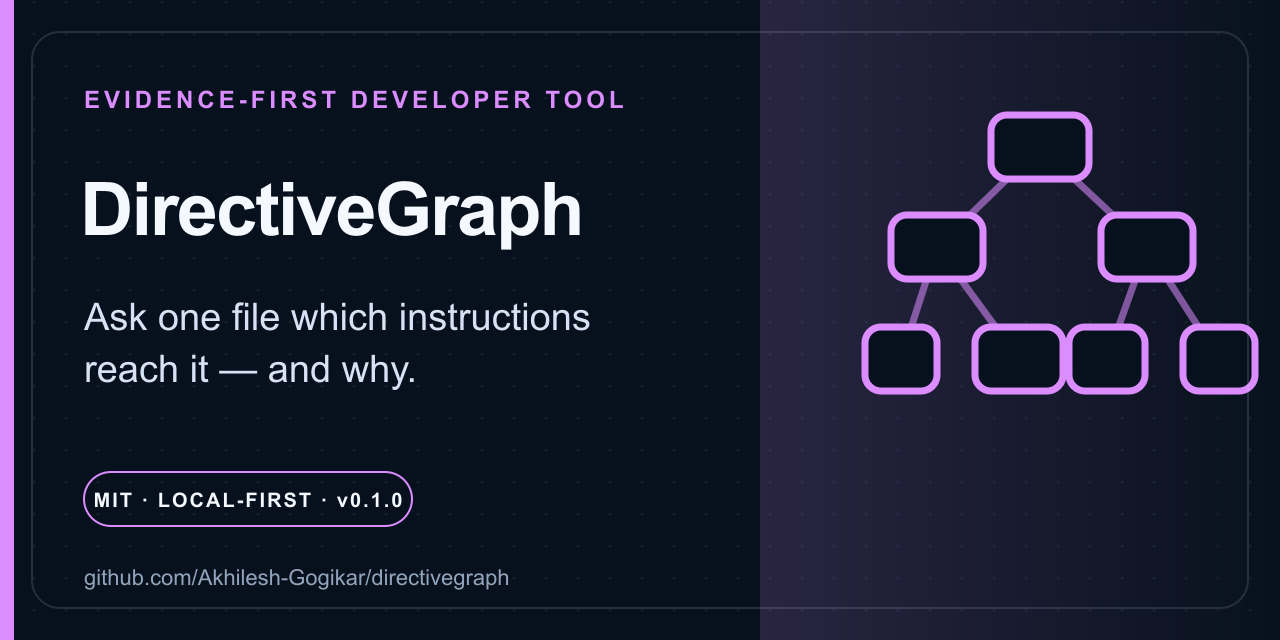
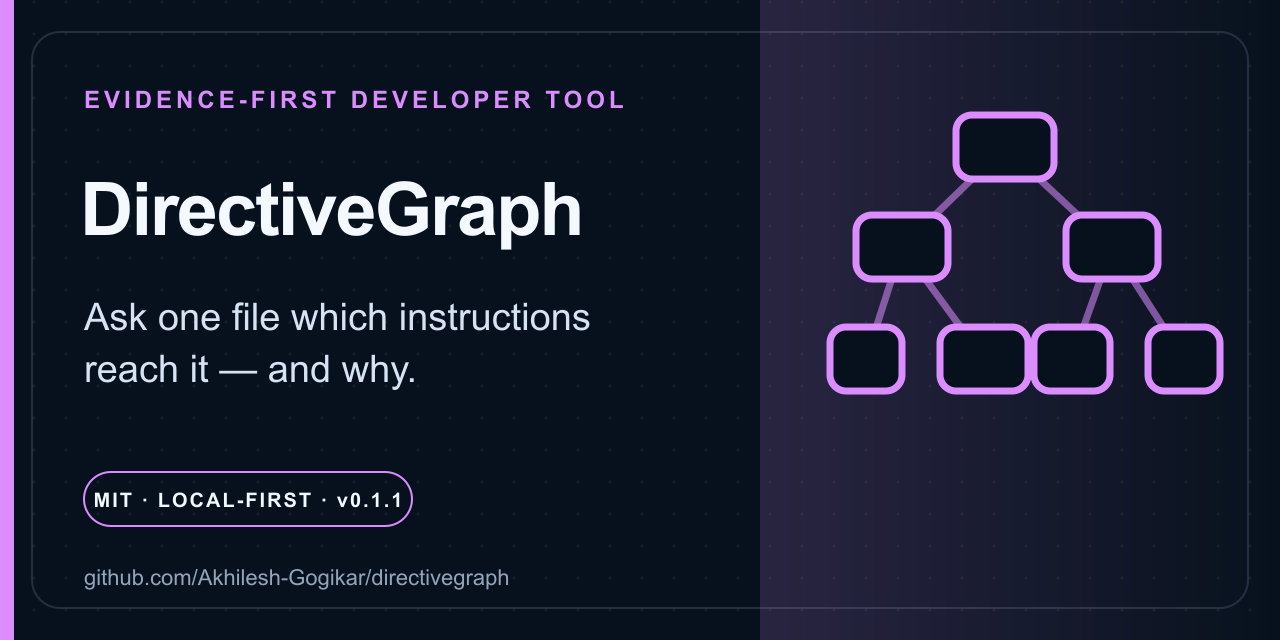
release: prepare 0.1.1 for public launch (#11)
Prepares DirectiveGraph 0.1.1 for the public launch, following the
ReleaseFence 0.1.1 pattern. There are no CLI or report-format changes;
`directivegraph.report.v1` is unchanged.

## Changes
- **Version 0.1.1:** `pyproject.toml`, `__version__`, tests,
bug-template placeholder, README status, CHANGELOG, and the social
preview. The preview SVG and PNG are re-rendered, and the graphic now
sits inside the frame.
- **Launch planning removed from the repo:** `docs/LAUNCH_KIT.md` and
`docs/PLAN.md` are moved out. README links and tests are updated, and a
test asserts the files stay out.
- **ECOSYSTEM.md** lists only public tools: DirectiveGraph and
ReleaseFence. An allowlist test fails if any other entry is listed or
any other `Akhilesh-Gogikar/*` repo is linked from Markdown. The test
names no unreleased project.
- **Removed a test assertion that spelled out a private project name.**
- **Doc accuracy:**
- Symlinked instruction files are followed today, including targets
outside `--root`. This is disclosed in SEMANTICS, SECURITY, PRIVACY, and
ARCHITECTURE and tracked in #7.
- Claude Code sources also get closer-source candidate edges. Claude and
Gemini edges record position, not a documented closer-wins rule.
- SCOPE's v0 boundary now matches the "no cross-vendor order" behavior.
- **Issue seeds** are synced with the live issues (#4–#8) and the
current code, covering titles, labels, `_parse_rules` behavior, symlink
[…]

Changed region(s): [[0.625, 0.1562, 1.0, 0.625]]

diff --git a/tests/test_project_metadata.py b/tests/test_project_metadata.py
@@ -18,7 +18,7 @@ class ProjectMetadataTest(unittest.TestCase):
             "LICENSE", "CONTRIBUTING.md", "CODE_OF_CONDUCT.md", "SECURITY.md", "SUPPORT.md",
             "GOVERNANCE.md", "ROADMAP.md", "CHANGELOG.md", "ECOSYSTEM.md", "pyproject.toml",
             "docs/ARCHITECTURE.md", "docs/TROUBLESHOOTING.md", "docs/API_STABILITY.md",
-            "docs/PRIVACY.md", "docs/ACCESSIBILITY.md", "docs/LAUNCH_KIT.md", "docs/ISSUE_SEEDS.md",
+            "docs/PRIVACY.md", "docs/ACCESSIBILITY.md", "docs/ISSUE_SEEDS.md",
             ".github/ISSUE_TEMPLATE/bug.yml", ".github/ISSUE_TEMPLATE/feature.yml",
             ".github/PULL_REQUEST_TEMPLATE.md", ".github/CODEOWNERS", ".github/dependabot.yml",
             ".github/workflows/ci.yml", ".github/workflows/release.yml",
@@ -27,12 +27,12 @@ class ProjectMetadataTest(unittest.TestCase):
 
     def test_package_and_workflow_contract(self):
         project = (ROOT / "pyproject.toml").read_text(encoding="utf-8")
-        self.assertIn('version = "0.1.0"', project)
+        self.assertIn('version = "0.1.1"', project)
         self.assertIn('dependencies = []', project)
         self.assertIn('license = "MIT"', project)
         self.assertIn('license-files = ["LICENSE"]', project)
         self.assertIn('directivegraph = "directivegraph.__main__:main"', project)
-        self.assertEqual("0.1.0", directivegraph.__version__)
+        self.assertEqual("0.1.1", directivegraph.__version__)
         ci = (ROOT / ".github/workflows/ci.yml").read_text(encoding="utf-8")
         release = (ROOT / ".github/workflows/release.yml").read_text(encoding="utf-8")
         self.assertIn("permissions:\n  contents: read", ci)
@@ -67,9 +67,14 @@ class ProjectMetadataTest(unittest.TestCase):
         self.assertEqual([], broken)
         joined = "\n".join(text)
         self.assertNotIn("/" + "Users" + "/", joined)
-        self.assertNotIn("One" + "New", joined)
         ecosystem = (ROOT / "ECOSYSTEM.md").read_text(encoding="utf-8")
-        self.assertEqual(7, len(set(re.findall(r"github\.com/Akhilesh-Gogikar/([a-z0-9-]+)", ecosystem))))
+        # Allowlist: list and link only public tools, so unreleased siblings stay unnamed.
+        public = {"directivegraph", "releasefence"}
+        entries = [line for line in ecosystem.splitlines() if line.lstrip().startswith(("-", "*", "|"))]
+        self.assertEqual(len(public), len(entries))
+        owner_repos = r"github\.com/Akhilesh-Gogikar/([a-z0-9-]+)"
+        self.assertEqual(public, set(re.findall(owner_repos, ecosystem)))
+        self.assertEqual(set(), set(re.findall(owner_repos, joined)) - public)
         self.assertIn("optional and informational", ecosystem)
 
     def test_launch_materials_are_complete_and_scoped(self):
@@ -77,10 +82,9 @@ class ProjectMetadataTest(unittest.TestCase):
         self.assertEqual(5, len(re.findall(r"^## \d+\. ", seeds, re.MULTILINE)))
         for field in ("**Proposed title:**", "**Labels:**", "**Rationale:**", "**Acceptance criteria**", "**Test plan:**", "**Skills:**", "**Estimated scope:**", "**Likely files:**"):
             self.assertEqual(5, seeds.count(field), field)
-        launch = (ROOT / "docs/LAUNCH_KIT.md").read_text(encoding="utf-8")
-        for section in ("### Hacker News", "### Reddit", "### LinkedIn", "### X", "## FAQ", "## Launch-day checklist", "## First 30 days"):
-            self.assertIn(section, launch)
-        self.assertIn("Never claim", launch)
+        # Maintainer launch planning stays outside the repository.
+        self.assertFalse((ROOT / "docs/LAUNCH_KIT.md").exists())
+        self.assertFalse((ROOT / "docs/PLAN.md").exists())
 
 
 if __name__ == "__main__":

diff --git a/tests/test_directivegraph.py b/tests/test_directivegraph.py
@@ -68,7 +68,7 @@ class DirectiveGraphTest(unittest.TestCase):
             text=True,
         )
         self.assertEqual(result.returncode, 0, result.stderr)
-        self.assertEqual(result.stdout, "directivegraph 0.1.0\n")
+        self.assertEqual(result.stdout, "directivegraph 0.1.1\n")
         self.assertEqual(result.stderr, "")
 
 

diff --git a/directivegraph/__init__.py b/directivegraph/__init__.py
@@ -3,4 +3,4 @@
 from .core import analyze, render_dot, render_html, render_text, to_json
 
 __all__ = ["analyze", "render_dot", "render_html", "render_text", "to_json"]
-__version__ = "0.1.0"
+__version__ = "0.1.1"

diff --git a/docs/ISSUE_SEEDS.md b/docs/ISSUE_SEEDS.md
@@ -1,19 +1,19 @@
 # Issue seeds
 
-These are launch-ready drafts, not proof that an issue has been filed. Maintainers should confirm scope, create only the issues they intend to triage, and keep one owner per issue.
+These five work packages are filed as issues [#4](https://github.com/Akhilesh-Gogikar/directivegraph/issues/4) through [#8](https://github.com/Akhilesh-Gogikar/directivegraph/issues/8). The live issues are authoritative; this file keeps their original scope reviewable next to the code. Keep one owner per issue.
 
 ## 1. Protect instruction files from accidental output overwrite
 
-**Proposed title:** `Protect instruction files from accidental --output overwrite`
+**Proposed title:** `Protect instruction files from accidental output overwrite`
 
-**Labels:** `good first issue`, `bug`, `safety`, `needs-triage`
+**Labels:** `bug`, `good first issue`, `help wanted`, `safety`, `difficulty: beginner`, `size: S`, `mentored`, `status: ready`
 
 **Rationale:** analysis completes before output is written, but a user can point `--output` at an applicable instruction file and destroy source data. The CLI should fail closed.
 
 **Acceptance criteria**
 
 - Resolve the output path before writing and reject it when it aliases the target or any discovered instruction source.
-- Cover direct paths, normalized `..` paths, and symlink aliases supported by the chosen platform policy.
+- Cover direct paths and normalized `..` paths. Symlink aliases follow the policy from seed 4 (#7) once it lands.
 - Exit with code `2`, name the conflicting root-relative path when safe, and leave the file byte-for-byte unchanged.
 - Normal output behavior remains unchanged.
 
@@ -27,9 +27,9 @@ These are launch-ready drafts, not proof that an issue has been filed. Maintaine
 
 **Proposed title:** `Add deterministic JSON snapshots for all five synthetic repositories`
 
-**Labels:** `good first issue`, `testing`, `fixtures`, `needs-triage`
+**Labels:** `good first issue`, `help wanted`, `testing`, `fixtures`, `difficulty: beginner`, `size: M`, `mentored`, `status: ready`
 
-**Rationale:** current tests assert important fields, but reviewed snapshots would make unintended schema, reason-text, ordering, and ID changes obvious.
+**Rationale:** current tests assert important fields and check that two runs produce identical JSON, but reviewed snapshots would make unintended schema, reason-text, ordering, and ID changes obvious.
 
 **Acceptance criteria**
 
@@ -48,9 +48,9 @@ These are launch-ready drafts, not proof that an issue has been filed. Maintaine
 
 **Proposed title:** `Group wrapped Markdown list continuations into one extracted rule`
 
-**Labels:** `help wanted`, `parser`, `compatibility`, `needs-design`
+**Labels:** `help wanted`, `parser`, `compatibility`, `needs-design`, `difficulty: intermediate`, `size: M`, `status: ready`
 
-**Rationale:** `_parse_rules` treats each non-empty line as a rule. A visually wrapped list item therefore becomes multiple rules, which weakens line attribution and report readability.
+**Rationale:** `_parse_rules` skips headings, fenced code, and single-line HTML comments and strips list markers, but every other non-empty line becomes its own rule. A visually wrapped list item therefore becomes multiple rules, which weakens line attribution and report readability.
 
 **Acceptance criteria**
 
@@ -69,9 +69,9 @@ These are launch-ready drafts, not proof that an issue has been filed. Maintaine
 
 **Proposed title:** `Define and implement a symlink policy for instruction sources`
 
-**Labels:** `help wanted`, `security`, `filesystem`, `needs-design`
+**Labels:** `help wanted`, `security`, `filesystem`, `needs-design`, `difficulty: intermediate`, `size: L`, `status: ready`
 
-**Rationale:** target containment is resolved, but symlinked instruction files have not received an explicit trust-boundary policy. Reports must not unexpectedly read outside the selected root.
+**Rationale:** target containment is resolved, but symlinked instruction files are followed today, including targets outside `--root`, so their text can appear in a report. Reports must not unexpectedly read outside the selected root.
 
 **Acceptance criteria**
 
@@ -90,7 +90,7 @@ These are launch-ready drafts, not proof that an issue has been filed. Maintaine
 
 **Proposed title:** `Add documented path-glob instruction applicability`
 
-**Labels:** `advanced`, `semantics`, `import-format`, `provenance-required`
+**Labels:** `advanced`, `semantics`, `import-format`, `provenance-required`, `needs-design`, `difficulty: advanced`, `size: L`, `status: ready`
 
 **Rationale:** some public instruction formats scope files with documented path patterns. Supporting one could answer more target-specific questions, but only if matching and precedence are modeled without cross-format invention.
 

diff --git a/PROVENANCE.md b/PROVENANCE.md
@@ -14,14 +14,15 @@ This repository must remain independently developed from public sources and synt
 
 | Date | Source/version | Purpose | License or terms | Notes |
 |---|---|---|---|---|
-| 2026-08-16 | Project brief derived from public-landscape research | Initial scope only | Internal planning | No implementation or copied source |
+| 2026-08-16 | Project brief derived from public-landscape research | Initial scope only | Owner's personal planning notes (not included) | No implementation or copied source |
 | 2026-08-16 | [OpenAI Codex: AGENTS.md guide](https://developers.openai.com/codex/guides/agents-md) | Public `AGENTS.md` discovery and override filename semantics | Public documentation terms | Original implementation; no source copied |
 | 2026-08-16 | [Anthropic Claude Code: memory](https://docs.anthropic.com/en/docs/claude-code/memory) | Public project-memory filenames and hierarchy | Public documentation terms | Original conservative subset |
 | 2026-08-16 | [Gemini CLI: GEMINI.md](https://github.com/google-gemini/gemini-cli/blob/main/docs/cli/gemini-md.md) | Public context filename and hierarchical loading | [Apache-2.0](https://github.com/google-gemini/gemini-cli/blob/main/LICENSE) | No upstream code copied |
 | 2026-08-16 | [GitHub Copilot: repository custom instructions](https://docs.github.com/en/copilot/customizing-copilot/adding-repository-custom-instructions-for-github-copilot) | Public repository instruction path | GitHub documentation terms | Original conservative subset |
 | 2026-08-16 | Repository `fixtures/01_root` through `fixtures/05_public_names` | First proof gate and regression tests | Original synthetic data | No real repository instructions or private/partner content |
 | 2026-08-17 | [SPDX MIT License text](https://spdx.org/licenses/MIT.html) | Repository license | MIT | Copyright line supplied by repository owner |
-| 2026-08-17 | [Python packaging specification](https://packaging.python.org/en/latest/specifications/pyproject-toml/) | `pyproject.toml` metadata and console entry point | Public documentation terms | No third-party package source copied; runtime dependencies remain empty |
-| 2026-08-17 | [GitHub Actions documentation](https://docs.github.com/en/actions) | Least-privilege CI and release automation | GitHub documentation terms | Original workflows; release is tag-triggered and does not publish registries |
+| 2026-08-17 | [Python packaging specification](https://packaging.python.org/en/latest/specifications/pyproject-toml/) | `pyproject.toml` metadata and console entry point | Public documentation terms | No third-party package source copied; runtime dependencies remain empty; `setuptools` (MIT) is a build-time backend only |
+| 2026-08-17 | [GitHub Actions documentation](https://docs.github.com/en/actions) | Least-privilege CI and release automation | GitHub documentation terms | Original workflows; release is tag-triggered and does not publish registries; uses SHA-pinned `actions/checkout` and `actions/setup-python` (MIT) at run time, not vendored |
 | 2026-08-17 | Repository community and `docs/*.md` launch materials | Contribution, governance, support, privacy, accessibility, and launch guidance | Original project documentation | No private or partner material |
-| 2026-08-17 | Locally authored deterministic social-preview SVG | Repository preview and README identity | Original work under this repository’s MIT License | No external logos, fonts, screenshots, adoption claims, or partner assets; adjacent PNG is rendered from the SVG |
+| 2026-08-17 | Locally authored deterministic social-preview SVG | Repository preview and README identity | Original work under this repository’s MIT License | No external logos, fonts, screenshots, adoption claims, or partner assets; adjacent PNG is rendered from the SVG locally with `sharp` (Apache-2.0), which is not vendored |
+| 2026-10-05 | Owner launch review | Public-release gate in SCOPE.md | Not applicable | Owner confirmed personal ownership with no employer, company, or partner IP claim; MIT license confirmed; full-history secret, provenance, and boundary audit found no blockers; owner accepted pre-launch planning text and project names that remain in earlier commits; trademark check was a directional web search only |

diff --git a/docs/SEMANTICS.md b/docs/SEMANTICS.md
@@ -5,7 +5,7 @@ DirectiveGraph v0 is intentionally conservative. It scans only these public, doc
 | Format | Paths scanned | MVP interpretation |
 |---|---|---|
 | Codex | `AGENTS.md`, `AGENTS.override.md` | Walk root-to-target ancestry. In one directory, `AGENTS.override.md` replaces `AGENTS.md`. Deeper applied sources get a **closer precedence candidate** edge; parents are not declared wholly shadowed. |
-| Claude Code | `CLAUDE.md`, `.claude/CLAUDE.md` | Collect matching files on root-to-target ancestry. No relationship between the two spellings is invented. |
+| Claude Code | `CLAUDE.md`, `.claude/CLAUDE.md` | Collect matching files on root-to-target ancestry and show closer-source candidate edges. No relationship between the two spellings in one directory is invented. |
 | Gemini CLI | `GEMINI.md` | Collect matching files on root-to-target ancestry and show closer-source candidate edges. |
 | GitHub Copilot | `.github/copilot-instructions.md` | Treat the documented root path as repository-wide. |
 
@@ -13,6 +13,10 @@ DirectiveGraph v0 is intentionally conservative. It scans only these public, doc
 
 The tiny Markdown reader records each non-empty, non-heading line outside fenced code as instruction text. It retains its section and line number. It does not decide that two natural-language lines are equivalent or contradictory.
 
+For Claude Code and Gemini CLI, a closer-source candidate edge records position only: the cited documentation describes hierarchical loading, not a closer-wins rule.
+
 `applied` therefore means “comes from a discovered applicable source,” not “guaranteed to win every conflict.” `shadowed` is used only for the documented same-directory `AGENTS.override.md` replacement. Cross-vendor files are never ordered against one another.
 
-Imports, user/global instruction stores, hooks, skill files, path-glob front matter, generated settings, symlink traversal, and model-specific prompt assembly are outside v0.
+Imports, user/global instruction stores, hooks, skill files, path-glob front matter, generated settings, and model-specific prompt assembly are outside v0.
+
+Symlinks have no explicit policy yet. A symlinked instruction file on the ancestry is followed and read, including a target outside `--root`; only the target path itself must resolve under the root. Issue [#7](https://github.com/Akhilesh-Gogikar/directivegraph/issues/7) tracks a containment policy.

diff --git a/ECOSYSTEM.md b/ECOSYSTEM.md
@@ -1,15 +1,8 @@
-# Ecosystem
+# Akhilesh Gogikar OSS ecosystem
 
-DirectiveGraph is one of seven independent tools by `Akhilesh-Gogikar`. These links are optional and informational: DirectiveGraph does not install, call, endorse output from, or require any other repository.
+These entries are optional and informational. DirectiveGraph does not install, call, endorse output from, require, or exchange data with any other listed tool. Each project has an independent scope, lifecycle, security posture, and installation path. A related tool is listed only after it is public.
 
-| Project | Focus |
-|---|---|
-| [ReleaseFence](https://github.com/Akhilesh-Gogikar/releasefence) | Evidence-based release gates |
-| [Semver Weather](https://github.com/Akhilesh-Gogikar/semver-weather) | Ecosystem compatibility forecasting |
-| [ReviewBus](https://github.com/Akhilesh-Gogikar/reviewbus) | Portable review-event interchange |
-| [SDK WireDiff](https://github.com/Akhilesh-Gogikar/sdk-wirediff) | SDK wire-behavior comparison |
-| [TokenFlame](https://github.com/Akhilesh-Gogikar/tokenflame) | Context token and cost attribution |
-| [MCP Client Autopsy](https://github.com/Akhilesh-Gogikar/mcp-client-autopsy) | Local protocol-client behavior probes |
-| [DirectiveGraph](https://github.com/Akhilesh-Gogikar/directivegraph) | Path-specific agent-instruction traces |
+- [directivegraph](https://github.com/Akhilesh-Gogikar/directivegraph) — path-specific agent-instruction precedence traces.
+- [releasefence](https://github.com/Akhilesh-Gogikar/releasefence) — explainable local checks before a repository release.
 
-No bundle, shared service, data exchange, compatibility guarantee, or coordinated release schedule is implied.
+Availability of one project says nothing about the readiness or support status of another. No bundle, shared service, compatibility guarantee, or coordinated release schedule is implied.

diff --git a/CHANGELOG.md b/CHANGELOG.md
@@ -4,9 +4,21 @@ All notable changes are recorded here. The project follows semantic versioning f
 
 ## [Unreleased]
 
+## [0.1.1] — 2026-10-05
+
+No CLI or report-format changes; the `directivegraph.report.v1` contract is unchanged.
+
 ### Changed
 
-- Prepared community, security, packaging, CI, release, privacy, and accessibility documentation for review.
+- Added community, security, packaging, CI, release, privacy, and accessibility documentation for public contributors.
+- Moved the repository to `Akhilesh-Gogikar`, kept maintainer launch planning out of the repository, and listed related tools only after they are public.
+- Refreshed the social preview for 0.1.1.
+- Updated pinned CI actions (`actions/checkout` 7.0.1, `actions/setup-python` 7.0.0).
+
+### Fixed
+
+- Documented that symlinked instruction files are currently followed, including targets outside `--root` (tracked in #7), in the semantics, security, privacy, and architecture docs.
+- Documented that Claude Code sources also receive closer-source candidate edges, and that Claude Code and Gemini CLI edges record position rather than a documented closer-wins rule.
 
 ## [0.1.0] — 2026-08-17
 
@@ -17,5 +29,6 @@ All notable changes are recorded here. The project follows semantic versioning f
 - Deterministic JSON, text, DOT, and self-contained HTML reports.
 - Five synthetic nested repositories and stdlib tests.
 
-[Unreleased]: https://github.com/Akhilesh-Gogikar/directivegraph/compare/v0.1.0...HEAD
+[Unreleased]: https://github.com/Akhilesh-Gogikar/directivegraph/compare/v0.1.1...HEAD
+[0.1.1]: https://github.com/Akhilesh-Gogikar/directivegraph/compare/v0.1.0...v0.1.1
 [0.1.0]: https://github.com/Akhilesh-Gogikar/directivegraph/releases/tag/v0.1.0

diff --git a/README.md b/README.md
@@ -7,7 +7,7 @@
 
 **Ask one file which instructions reach it—and why.** DirectiveGraph turns a repository path into a conservative, source-linked precedence trace.
 
-> **Status: 0.1.0 alpha.** Source installation is supported; no package registry publication has occurred. See the evidence and limitations in [docs/LAUNCH_KIT.md](docs/LAUNCH_KIT.md).
+> **Status: 0.1.1 alpha.** Source installation is supported; no package registry publication has occurred. See the [limitations](#non-goals-and-limitations) below.
 
 ## Why
 
@@ -54,14 +54,14 @@ directivegraph fixtures/05_public_names/deep/src/task.py \
 - Not a generic linter, prompt pack, marketplace, agent harness, or prompt assembler.
 - No natural-language conflict inference or model-based scoring.
 - No undocumented or cross-vendor precedence claims.
-- Imports, user/global memory, hooks, skills, generated settings, and most path-glob instructions are outside `0.1.0`.
+- Imports, user/global memory, hooks, skills, generated settings, and most path-glob instructions are outside `0.1.x`.
 - The structural Markdown reader is deliberately not a complete Markdown parser.
 
 ## Documentation
 
 - [Architecture](docs/ARCHITECTURE.md) · [semantics](docs/SEMANTICS.md) · [API stability](docs/API_STABILITY.md)
 - [Privacy](docs/PRIVACY.md) · [accessibility](docs/ACCESSIBILITY.md) · [troubleshooting](docs/TROUBLESHOOTING.md)
-- [Roadmap](ROADMAP.md) · [changelog](CHANGELOG.md) · [launch kit](docs/LAUNCH_KIT.md)
+- [Roadmap](ROADMAP.md) · [changelog](CHANGELOG.md)
 - [Scope](SCOPE.md) · [provenance](PROVENANCE.md) · [ecosystem](ECOSYSTEM.md) · [issue seeds](docs/ISSUE_SEEDS.md)
 
 ## A focused contribution is welcome

diff --git a/CONTRIBUTING.md b/CONTRIBUTING.md
@@ -50,6 +50,6 @@ No number of commits automatically grants access. Governance and final decisions
 
 ## Triage and recognition
 
-Maintainers target an initial label or question within five business days and a first review of a ready, focused pull request within seven. These are goals, not service guarantees. `needs-triage` means scope is not confirmed; `good first issue` should be independently finishable; `help wanted` has agreed direction but needs an owner; `advanced` needs design review before code.
+Maintainers target an initial label or question within five business days and a first review of a ready, focused pull request within seven. These are goals, not service guarantees. `needs-triage` means scope is not confirmed; `good first issue` should be independently finishable; `help wanted` has agreed direction but needs an owner; `needs-design` or `advanced` needs design review before code; `status: ready` has acceptance criteria and can be claimed; `difficulty: *` and `size: *` estimate effort; `mentored` means a maintainer will guide the work.
 
 Merged contributors are credited in the pull request and relevant changelog or release notes. Substantial design, fixture, accessibility, documentation, and review work should be credited alongside code. Contributors may opt out of public recognition.

diff --git a/SCOPE.md b/SCOPE.md
@@ -8,7 +8,7 @@ Nested AGENTS.md, CLAUDE.md, skills, hooks, and vendor rules create file-specifi
 
 - Parse documented instruction scopes for selected public agent formats.
 - Answer which rule applies to a target file, which rule shadows it, and why.
-- Render a source and precedence graph with cross-vendor differences.
+- Render a source and precedence graph that shows each format side by side without inventing cross-vendor order.
 
 ## Explicit non-goals
 
@@ -20,7 +20,7 @@ Nested AGENTS.md, CLAUDE.md, skills, hooks, and vendor rules create file-specifi
 
 - No source, fixtures, prompts, traces, schemas, requirements, or examples from private company, partner, customer, or unpublished research repositories.
 - No customer or partner names, data, incidents, screenshots, or derived requirements.
-- No public release until ownership, license, trademark, security, and contractual reviews are recorded.
+- No public release until ownership, license, trademark, security, and contractual reviews are recorded (see the 2026-10-05 launch review in [PROVENANCE.md](PROVENANCE.md)).
 
 ## First proof gate
 

diff --git a/SECURITY.md b/SECURITY.md
@@ -12,4 +12,4 @@ Security fixes target the latest `0.1.x` release and `main`. Older snapshots are
 
 ## Security boundary
 
-DirectiveGraph reads instruction files beneath a local root and writes reports. It does not execute instruction text, invoke models, or make network requests. The resolved target must remain under the selected root. Reports repeat instruction text, so protect them like the source repository. Very large local files and symlinked instruction sources have not received adversarial hardening.
+DirectiveGraph reads instruction files beneath a local root and writes reports. It does not execute instruction text, invoke models, or make network requests. The resolved target must remain under the selected root. Reports repeat instruction text, so protect them like the source repository. Symlinked instruction files are currently followed, including targets outside the root, until a containment policy lands; do not run DirectiveGraph on untrusted trees you would not otherwise read. Very large local files have not received adversarial hardening.
